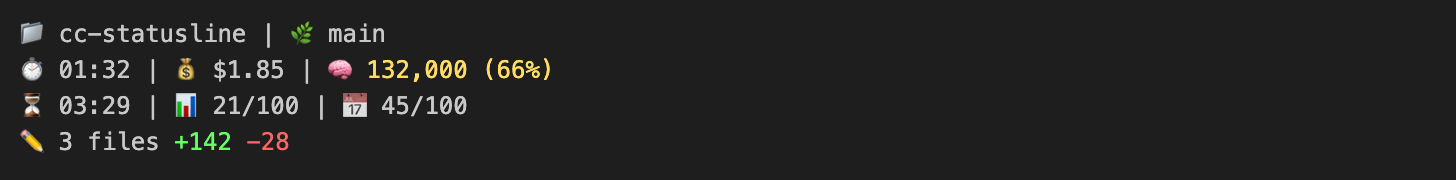
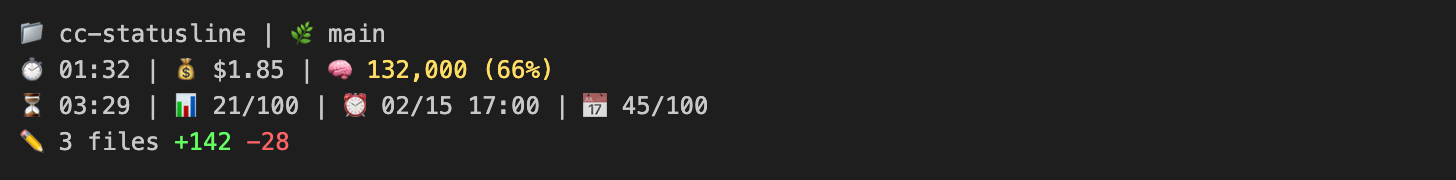
docs: 리셋 시각 및 7일 리셋 시간 문서 업데이트
- ⏳ 설명을 카운트다운에서 리셋 시각으로 변경 (전체 언어)
- ⏰ 주간 리셋 시간 항목 추가 (Features, Emoji Guide, How It Works)
- usage_metrics 스크린샷 업데이트

Changed region(s): [[0.2163, 0.5, 0.4945, 0.6667]]

diff --git a/docs/README.ja.md b/docs/README.ja.md
@@ -50,8 +50,9 @@ Claude Code用カスタムステータスライン。
 - **Git Diff**: ファイル数、追加、削除
 - **PR URL**: クリック可能なOSC 8ハイパーリンク
 - **TrueColor**: しきい値に基づく動的カラー
-- **制限リセットタイマー**: 使用量制限リセットまでの残り時間
+- **リセット時刻**: 5時間使用量リセット時刻（HH:MM）
 - **ブロック使用量**: 5時間使用率（サーバーAPI基準）
+- **週間リセットタイマー**: 7日使用量リセット時刻（MM/DD HH:MM）
 - **週間使用量**: 7日使用率（サーバーAPI基準）
 
 ## 絵文字ガイド
@@ -63,8 +64,9 @@ Claude Code用カスタムステータスライン。
 | ⏱     | セッション経過時間           |
 | 💰     | セッションコスト（USD）      |
 | 🧠     | コンテキストウィンドウ使用量 |
-| ⏳     | 制限リセットカウントダウン   |
+| ⏳     | リセット時刻                 |
 | 📊     | 5時間使用率 %                |
+| ⏰     | 週間制限リセット時間         |
 | 📅     | 7日使用率 %                  |
 | ✏     | コミットされていない変更     |
 | 📎     | Pull Requestリンク           |
@@ -85,7 +87,8 @@ macOS KeychainのOAuthアクセストークンを使用してAnthropic Usage API
 
 1. **5時間使用率** - 現在のビリングブロックのサーバー計算使用パーセンテージ
 2. **7日使用率** - サーバー計算の週間使用パーセンテージ
-3. **リセットタイマー** - サーバーから提供される正確なリセット時間（`resets_at`）
+3. **リセットタイマー** - サーバーから提供される正確なリセット時間（`five_hour.resets_at`）
+4. **週間リセットタイマー** - 7日使用量リセット時刻（`seven_day.resets_at`）、`MM/DD HH:MM`形式（例：`02/15 17:00`）
 
 ### 有効化
 

diff --git a/docs/README.es.md b/docs/README.es.md
@@ -50,8 +50,9 @@ Agrega lo siguiente a `~/.claude/settings.json`:
 - **Git Diff**: Cantidad de archivos, inserciones, eliminaciones
 - **PR URL**: Hipervínculo OSC 8 clickeable
 - **TrueColor**: Colores dinámicos basados en umbrales
-- **Temporizador de reinicio**: Tiempo restante hasta el reinicio del límite
+- **Hora de reinicio**: Hora de reinicio del límite de 5 horas (HH:MM)
 - **Uso del bloque**: Porcentaje de utilización de 5 horas (desde API del servidor)
+- **Temporizador de reinicio semanal**: Tiempo de reinicio del límite semanal (MM/DD HH:MM)
 - **Uso semanal**: Porcentaje de utilización de 7 días (desde API del servidor)
 
 ## Guía de Emojis
@@ -63,8 +64,9 @@ Agrega lo siguiente a `~/.claude/settings.json`:
 | ⏱    | Tiempo transcurrido de sesión        |
 | 💰    | Costo de sesión en USD               |
 | 🧠    | Uso de ventana de contexto           |
-| ⏳    | Cuenta regresiva de reinicio         |
+| ⏳    | Hora de reinicio                     |
 | 📊    | Utilización de 5 horas %             |
+| ⏰    | Tiempo de reinicio semanal           |
 | 📅    | Utilización de 7 días %              |
 | ✏    | Cambios sin confirmar                |
 | 📎    | Enlace de Pull Request               |
@@ -85,7 +87,8 @@ Llama a la API de Uso de Anthropic (`/api/oauth/usage`) usando el token de acces
 
 1. **Utilización de 5 horas** - Porcentaje de uso calculado por el servidor para el bloque de facturación actual
 2. **Utilización de 7 días** - Porcentaje de uso semanal calculado por el servidor
-3. **Temporizador de reinicio** - Tiempo exacto de reinicio desde el servidor (`resets_at`)
+3. **Temporizador de reinicio** - Tiempo exacto de reinicio desde el servidor (`five_hour.resets_at`)
+4. **Temporizador de reinicio semanal** - Tiempo de reinicio del límite semanal (`seven_day.resets_at`), formato `MM/DD HH:MM` (ej., `02/15 17:00`)
 
 ### Activar
 

diff --git a/CLAUDE.md b/CLAUDE.md
@@ -17,6 +17,7 @@ cc-statusline/
 │   ├── format/
 │   │   ├── index.ts                # barrel re-export
 │   │   ├── formatNumber.ts         # formatNumber
+│   │   ├── formatResetDate.ts      # formatResetDate
 │   │   ├── formatTime.ts           # formatTime
 │   │   └── getTimeUntilReset.ts    # getTimeUntilReset
 │   ├── git/
@@ -56,7 +57,8 @@ cc-statusline/
 | Git diff | `git diff --shortstat` |
 | PR URL | `gh pr view` |
 | 블록 사용량 | Anthropic Usage API (`/api/oauth/usage`, OAuth 토큰) |
-| 리셋 타이머 | Anthropic Usage API `resets_at` |
+| 리셋 타이머 | Anthropic Usage API `five_hour.resets_at` |
+| 주간 리셋 시간 | Anthropic Usage API `seven_day.resets_at` |
 
 ## WHY
 
@@ -65,7 +67,8 @@ Claude Code 기본 statusbar에 다음 정보를 추가로 표시:
 - Context window 토큰 사용량 및 사용률 (%)
 - Git diff 통계 (파일 수, +insertions, -deletions)
 - PR URL (클릭 가능한 OSC 8 하이퍼링크)
-- 리셋 타이머 (5시간 사용량 리셋까지 남은 시간)
+- 리셋 시각 (5시간 사용량 리셋 시각, HH:MM)
+- 주간 리셋 시간 (7일 사용량 리셋 시각, MM/DD HH:MM)
 - 블록 사용량 (서버 API 기반 5시간/7일 utilization %)
 - TrueColor 동적 색상 (임계값 기반 경고)
 
@@ -114,7 +117,7 @@ bun test --coverage
 ```
 
 **테스트 구조**:
-- `pure.test.ts`: 순수 함수 (getUsageColor, formatNumber, formatTime, getTimeUntilReset)
+- `pure.test.ts`: 순수 함수 (getUsageColor, formatNumber, formatTime, formatResetDate, getTimeUntilReset)
 - `cached.test.ts`: 캐시 TTL 및 메커니즘
 - `cli.test.ts`: CLI 인자 파싱 (--show-usage)
 - `main.test.ts`: renderStatusLine 순수 함수 (의존성 주입 방식)

diff --git a/docs/README.ko.md b/docs/README.ko.md
@@ -50,8 +50,9 @@ Claude Code를 위한 커스텀 상태표시줄.
 - **Git Diff**: 파일 수, 추가, 삭제
 - **PR URL**: 클릭 가능한 OSC 8 하이퍼링크
 - **TrueColor**: 임계값에 따른 동적 색상
-- **제한 리셋 타이머**: 사용량 제한 리셋까지 남은 시간
+- **리셋 시각**: 5시간 사용량 리셋 시각 (HH:MM)
 - **블록 사용량**: 5시간 사용률 (서버 API 기반)
+- **주간 리셋 타이머**: 7일 사용량 리셋 시각 (MM/DD HH:MM)
 - **주간 사용량**: 7일 사용률 (서버 API 기반)
 
 ## Emoji 가이드
@@ -63,8 +64,9 @@ Claude Code를 위한 커스텀 상태표시줄.
 | ⏱    | 세션 경과 시간         |
 | 💰    | 세션 비용 (USD)        |
 | 🧠    | 컨텍스트 창 사용량     |
-| ⏳    | 제한 리셋 카운트다운   |
+| ⏳    | 리셋 시각              |
 | 📊    | 5시간 사용률 %         |
+| ⏰    | 주간 제한 리셋 시간    |
 | 📅    | 7일 사용률 %           |
 | ✏    | 커밋되지 않은 변경사항 |
 | 📎    | Pull Request 링크      |
@@ -85,7 +87,8 @@ macOS Keychain의 OAuth 액세스 토큰을 사용하여 Anthropic Usage API(`/a
 
 1. **5시간 사용률** - 현재 빌링 블록의 서버 계산 사용 백분율
 2. **7일 사용률** - 서버 계산 주간 사용 백분율
-3. **리셋 타이머** - 서버에서 제공하는 정확한 리셋 시간 (`resets_at`)
+3. **리셋 타이머** - 서버에서 제공하는 정확한 리셋 시간 (`five_hour.resets_at`)
+4. **주간 리셋 타이머** - 7일 사용량 리셋 시각 (`seven_day.resets_at`), `MM/DD HH:MM` 포맷 (예: `02/15 17:00`)
 
 ### 활성화
 

diff --git a/README.md b/README.md
@@ -49,8 +49,9 @@ Add the following to `~/.claude/settings.json`:
 - **Git Diff**: File count, insertions, deletions
 - **PR URL**: Clickable OSC 8 hyperlink
 - **TrueColor**: Dynamic colors based on thresholds
-- **Limit Reset Timer**: Countdown to usage limit reset
+- **Limit Reset Time**: Reset time display (HH:MM)
 - **Block Usage**: 5-hour utilization percentage (from server API)
+- **Weekly Reset Timer**: Weekly limit reset time (MM/DD HH:MM)
 - **Weekly Usage**: 7-day utilization percentage (from server API)
 
 ## Emoji Guide
@@ -62,8 +63,9 @@ Add the following to `~/.claude/settings.json`:
 | ⏱    | Session elapsed time     |
 | 💰    | Session cost in USD      |
 | 🧠    | Context window usage     |
-| ⏳    | Limit reset countdown    |
+| ⏳    | Limit reset time         |
 | 📊    | 5-hour utilization %     |
+| ⏰    | Weekly limit reset time  |
 | 📅    | 7-day utilization %      |
 | ✏    | Uncommitted changes      |
 | 📎    | Pull request link        |
@@ -84,7 +86,8 @@ Calls the Anthropic Usage API (`/api/oauth/usage`) using the OAuth access token 
 
 1. **5-hour utilization** - Server-calculated usage percentage for the current billing block
 2. **7-day utilization** - Server-calculated weekly usage percentage
-3. **Reset timer** - Exact reset time from the server (`resets_at`)
+3. **Reset timer** - Exact reset time from the server (`five_hour.resets_at`)
+4. **Weekly reset timer** - Weekly limit reset time (`seven_day.resets_at`), shown as `MM/DD HH:MM` (e.g., `02/15 17:00`)
 
 ### Enable
 

diff --git a/docs/README.zh.md b/docs/README.zh.md
@@ -50,8 +50,9 @@ Claude Code 自定义状态栏。
 - **Git Diff**: 文件数、新增、删除
 - **PR URL**: 可点击的 OSC 8 超链接
 - **TrueColor**: 基于阈值的动态颜色
-- **限制重置计时器**: 使用量限制重置剩余时间
+- **重置时间**: 5小时使用量重置时间（HH:MM）
 - **块使用量**: 5小时使用率（来自服务器 API）
+- **每周重置计时器**: 7天使用量重置时间（MM/DD HH:MM）
 - **周使用量**: 7天使用率（来自服务器 API）
 
 ## 表情符号指南
@@ -63,8 +64,9 @@ Claude Code 自定义状态栏。
 | ⏱   | 会话经过时间        |
 | 💰   | 会话费用（美元）    |
 | 🧠   | 上下文窗口使用量    |
-| ⏳   | 限制重置倒计时      |
+| ⏳   | 重置时间            |
 | 📊   | 5小时使用率 %       |
+| ⏰   | 每周限制重置时间    |
 | 📅   | 7天使用率 %         |
 | ✏   | 未提交的更改        |
 | 📎   | Pull Request 链接   |
@@ -85,7 +87,8 @@ Claude Code 自定义状态栏。
 
 1. **5小时使用率** - 当前计费块的服务器计算使用百分比
 2. **7天使用率** - 服务器计算的周使用百分比
-3. **重置计时器** - 服务器提供的精确重置时间（`resets_at`）
+3. **重置计时器** - 服务器提供的精确重置时间（`five_hour.resets_at`）
+4. **每周重置计时器** - 7天使用量重置时间（`seven_day.resets_at`），`MM/DD HH:MM` 格式（如 `02/15 17:00`）
 
 ### 启用
 
